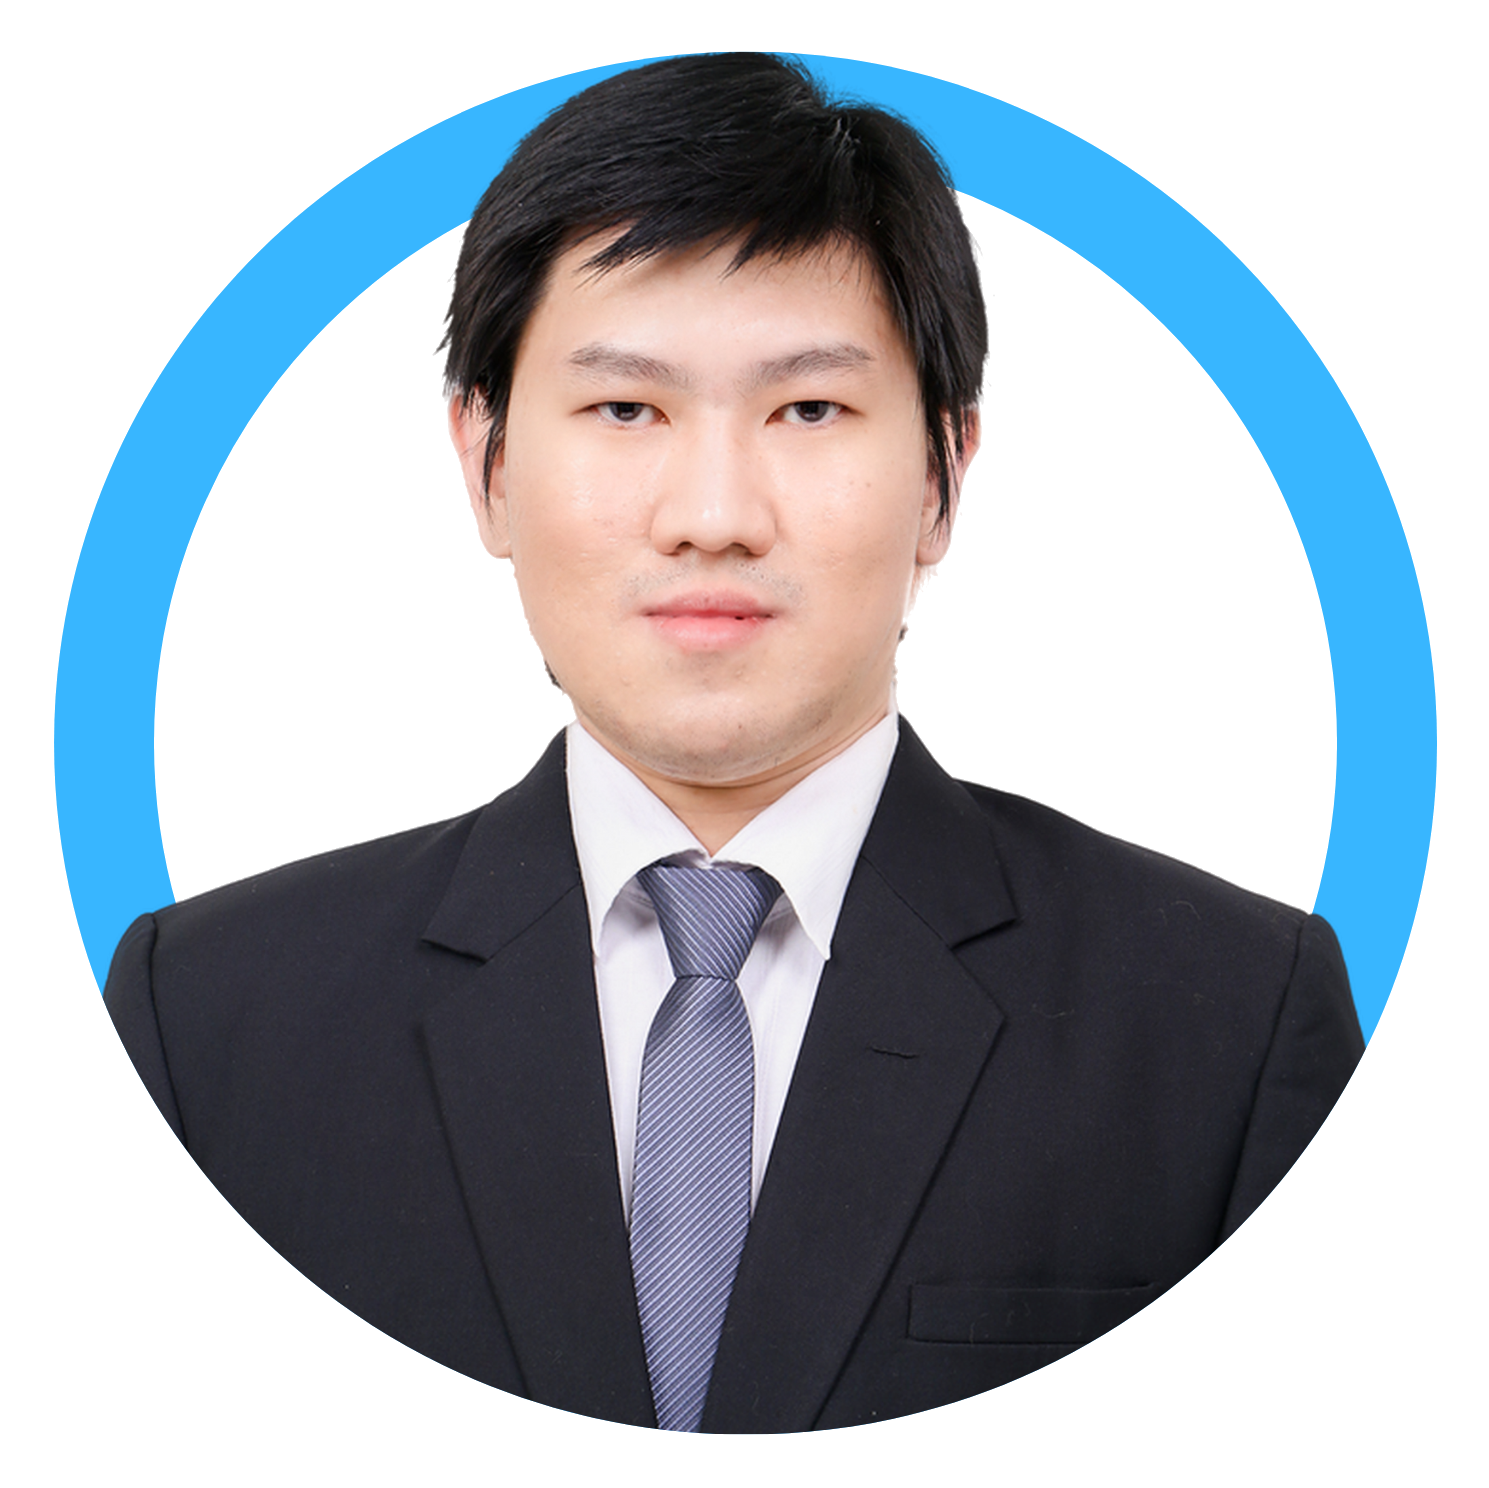
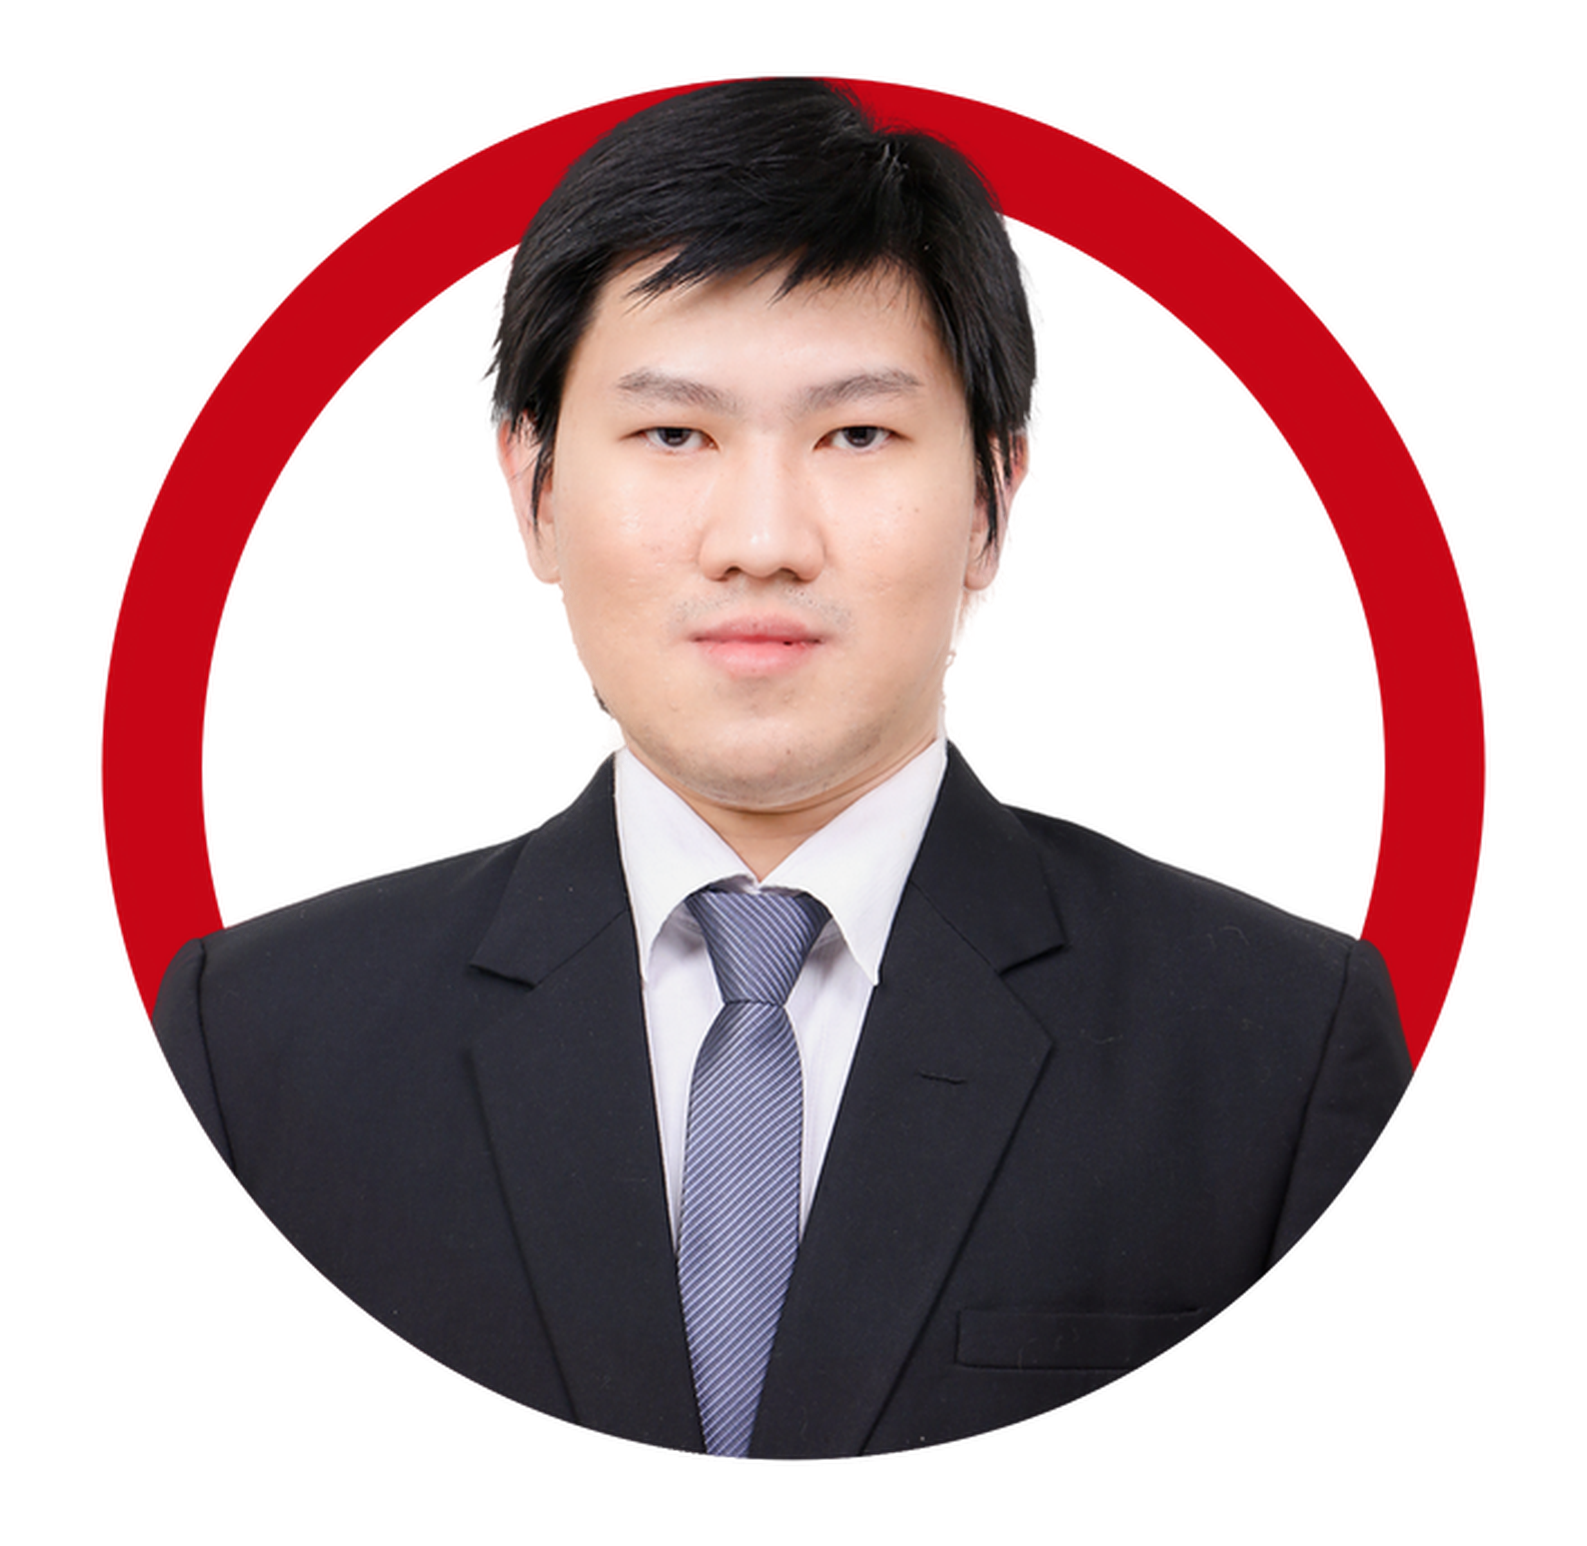
Adding color theme
Add new color theme to site (using SPY x FAMILY color theme).

diff --git a/src/views/Home/index.js b/src/views/Home/index.js
@@ -13,18 +13,21 @@ function Home() {
           <div className="col-lg my-auto m-auto">
             <h1>
               Yo! My name is <br />
-              <span className="text-primary">William Oktavianus</span>!
+              <span className="text-uppercase font-weight-bold">
+                William Oktavianus
+              </span>
+              !
             </h1>
             <hr />
             <h3>
-              I'm a <span className="text-primary">junior programmer</span>
+              I'm a <span className="">junior programmer</span>
               &nbsp;who's about to embark on a new journey.
             </h3>
             <br />
 
             <Link to="/contact">
               <Slide cascade={true}>
-                <button type="button" className="btn btn-primary btn-lg">
+                <button type="button" className="btn btn-secondary btn-lg">
                   Contact Me
                 </button>
               </Slide>

diff --git a/src/components/NavigationBar/index.js b/src/components/NavigationBar/index.js
@@ -3,7 +3,7 @@ import { NavLink } from "react-router-dom";
 function NavigationBar() {
   return (
     <div className="container-fluid">
-      <nav className="navbar navbar-expand navbar-dark bg-primary fixed-top">
+      <nav className="navbar navbar-expand navbar-dark bg-dark fixed-top">
         <div className="collapse navbar-collapse">
           <ul className="navbar-nav mx-auto">
             {/* Home */}

diff --git a/src/App.js b/src/App.js
@@ -1,7 +1,8 @@
 // STYLING
 import "bootstrap/dist/css/bootstrap.css";
-import "App.css";
 import "scss/custom.scss";
+
+import "App.css";
 
 // COMPONENTS
 import NavigationBar from "components/NavigationBar";
@@ -14,7 +15,7 @@ function App() {
   const routes = createRoutes();
 
   return (
-    <div>
+    <div className="vh-100 bg-primary">
       <NavigationBar />
       {routes}
     </div>

diff --git a/src/index.js b/src/index.js
@@ -1,9 +1,13 @@
 import React from "react";
 import ReactDOM from "react-dom/client";
-import "./index.css";
-import App from "./App";
 import reportWebVitals from "./reportWebVitals";
 import { BrowserRouter } from "react-router-dom";
+
+// STYLING
+import "index.css";
+
+// COMPONENTS
+import App from "App";
 
 const root = ReactDOM.createRoot(document.getElementById("root"));
 root.render(

diff --git a/src/views/Contact/index.js b/src/views/Contact/index.js
@@ -90,7 +90,7 @@ function Contact() {
               <br />
 
               {/*  */}
-              <button type="submit" className="btn btn-primary">
+              <button type="submit" className="btn btn-secondary">
                 Send
               </button>
             </form>

diff --git a/src/components/PageHeader/index.js b/src/components/PageHeader/index.js
@@ -5,7 +5,7 @@ function PageHeader(props) {
         <h1>{props.title}</h1>
         <h3>{props.subtitle}</h3>
       </div>
-      <hr className="border border-primary border-2" />
+      <hr className="border border-secondary border-2" />
     </div>
   );
 }

diff --git a/src/scss/custom.scss b/src/scss/custom.scss
@@ -7,7 +7,9 @@
 /* Your customizations here */
 
 $theme-colors: (
-  primary: red,
+  primary: #96b6b4,
+  secondary: #45483c,
+  dark: #000000,
 );
 
 @import "bootstrap";
